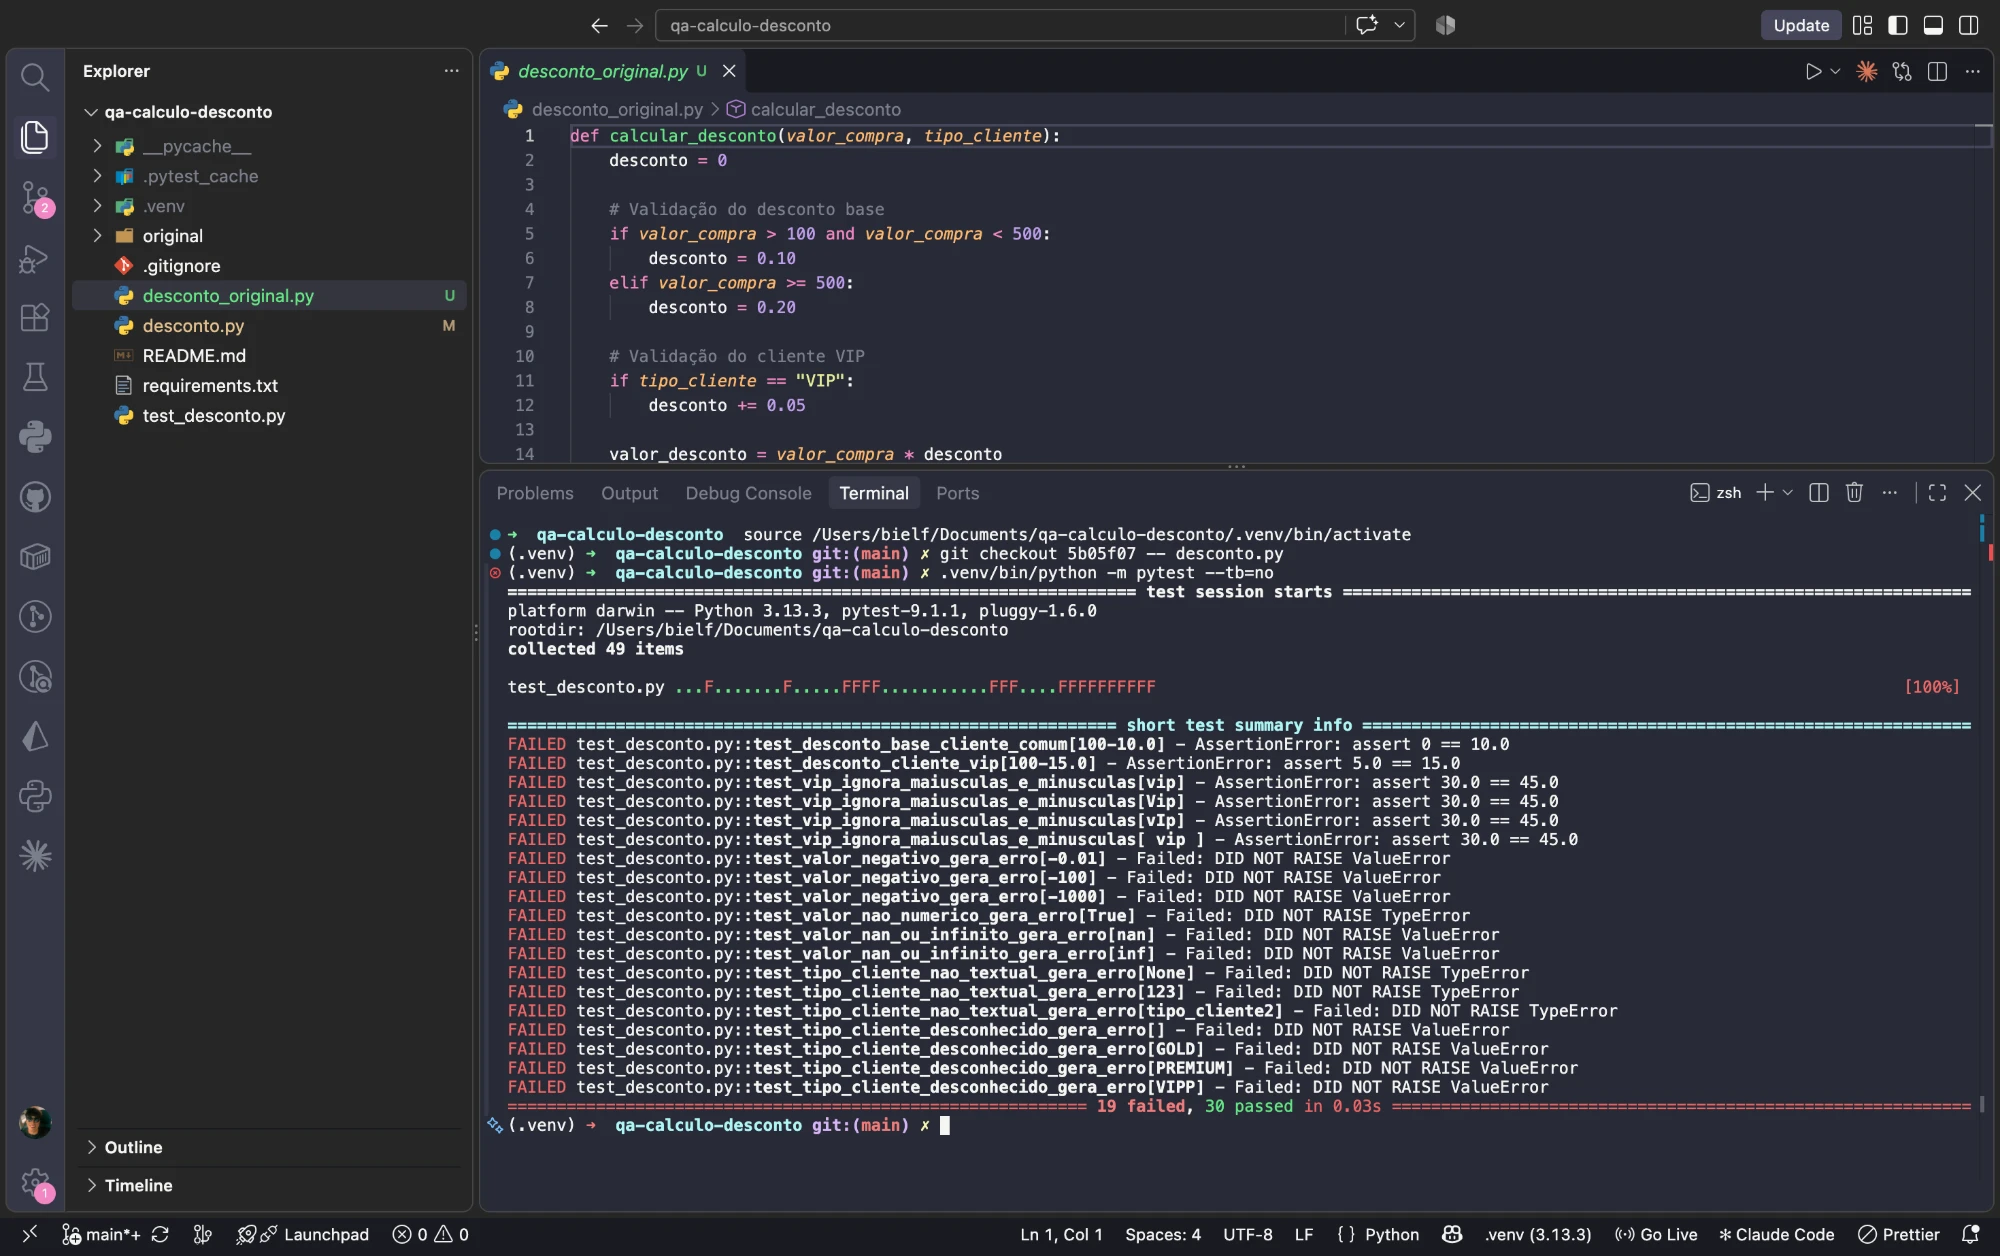
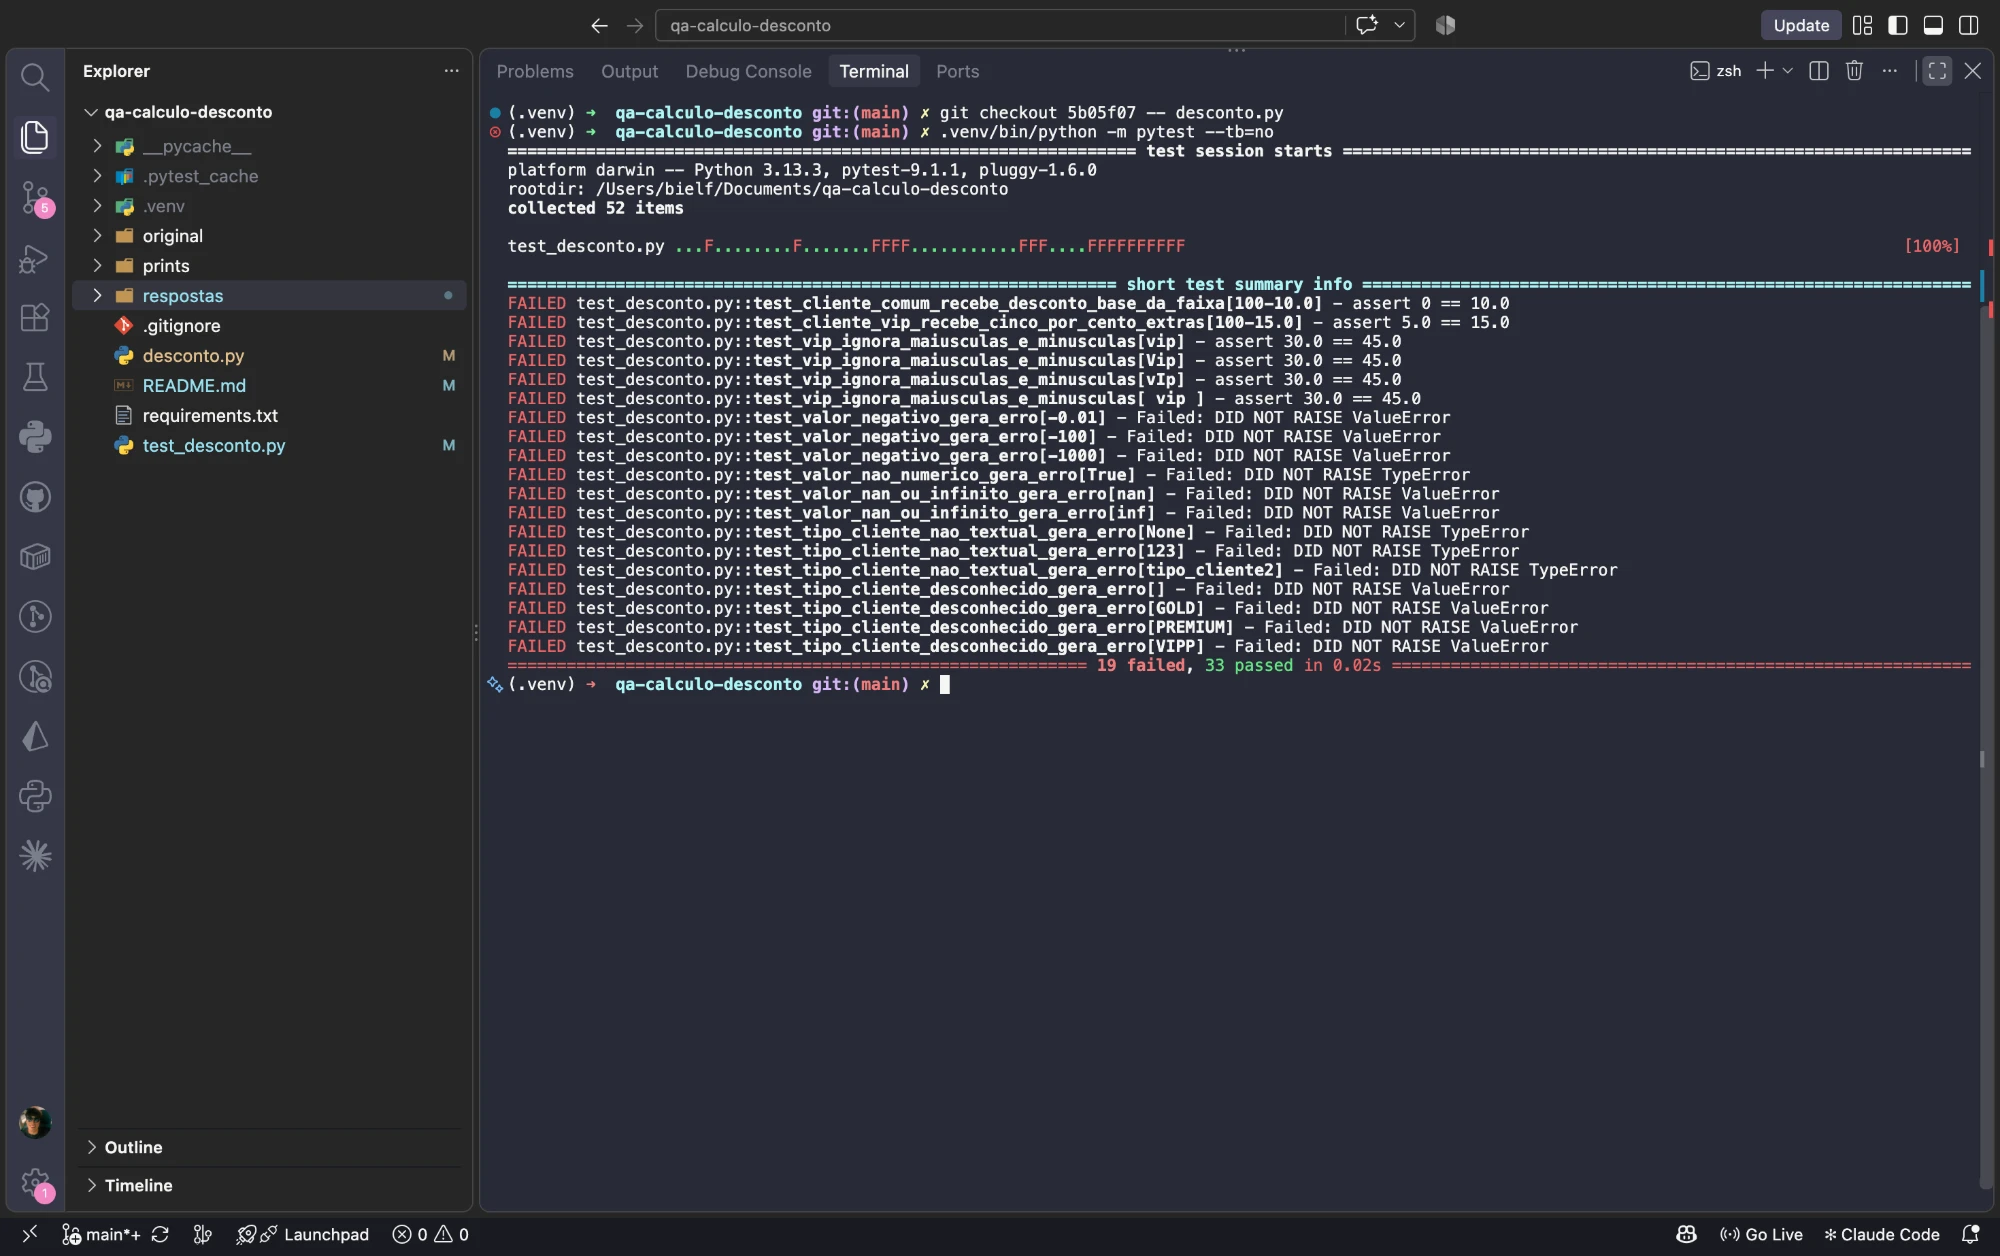
Reestrutura testes no padrão Arrange-Act-Assert e amplia valores limite
- Testes reescritos com as seções Arrange, Act e Assert explícitas
- Novos casos imediatamente depois das fronteiras: 500,01 (COMUM e VIP)
  e 100,01 (VIP), totalizando 52 testes e 34 cenários
- Cenários, análise dos bugs, README e prints atualizados

diff --git a/test_desconto.py b/test_desconto.py
@@ -6,99 +6,159 @@ from desconto import calcular_desconto
 # --- Desconto base: cliente COMUM (valores de fronteira) ---
 
 @pytest.mark.parametrize(
-    "valor_compra, esperado",
+    "valor_compra, desconto_esperado",
     [
         (0, 0.00),          # compra zerada
-        (50, 0.00),         # abaixo de 100 -> 0%
-        (99.99, 0.00),      # limite superior da faixa de 0%
-        (100, 10.00),       # fronteira: exatamente 100 -> 10%
-        (100.01, 10.00),    # logo acima de 100 -> 10%
+        (50, 0.00),         # meio da faixa de 0%
+        (99.99, 0.00),      # imediatamente antes de 100 -> 0%
+        (100, 10.00),       # exatamente 100 -> 10%
+        (100.01, 10.00),    # imediatamente depois de 100 -> 10%
         (300, 30.00),       # meio da faixa de 10%
-        (499.99, 50.00),    # limite superior da faixa de 10%
-        (500, 100.00),      # fronteira: exatamente 500 -> 20%
+        (499.99, 50.00),    # imediatamente antes de 500 -> 10%
+        (500, 100.00),      # exatamente 500 -> 20%
+        (500.01, 100.00),   # imediatamente depois de 500 -> 20%
         (750, 150.00),      # meio da faixa de 20%
     ],
 )
-def test_desconto_base_cliente_comum(valor_compra, esperado):
-    assert calcular_desconto(valor_compra, "COMUM") == esperado
+def test_cliente_comum_recebe_desconto_base_da_faixa(valor_compra, desconto_esperado):
+    # Arrange
+    tipo_cliente = "COMUM"
+
+    # Act
+    resultado = calcular_desconto(valor_compra, tipo_cliente)
+
+    # Assert
+    assert resultado == desconto_esperado
 
 
 # --- Cliente VIP: +5% sobre a porcentagem base ---
 
 @pytest.mark.parametrize(
-    "valor_compra, esperado",
+    "valor_compra, desconto_esperado",
     [
         (50, 2.50),         # 0% + 5% = 5%
-        (99.99, 5.00),      # 0% + 5% = 5%
-        (100, 15.00),       # fronteira: 10% + 5% = 15%
+        (99.99, 5.00),      # imediatamente antes de 100 -> 5%
+        (100, 15.00),       # exatamente 100 -> 15%
+        (100.01, 15.00),    # imediatamente depois de 100 -> 15%
         (300, 45.00),       # 10% + 5% = 15%
-        (499.99, 75.00),    # 10% + 5% = 15%
-        (500, 125.00),      # fronteira: 20% + 5% = 25%
+        (499.99, 75.00),    # imediatamente antes de 500 -> 15%
+        (500, 125.00),      # exatamente 500 -> 25%
+        (500.01, 125.00),   # imediatamente depois de 500 -> 25%
         (600, 150.00),      # 20% + 5% = 25%
     ],
 )
-def test_desconto_cliente_vip(valor_compra, esperado):
-    assert calcular_desconto(valor_compra, "VIP") == esperado
+def test_cliente_vip_recebe_cinco_por_cento_extras(valor_compra, desconto_esperado):
+    # Arrange
+    tipo_cliente = "VIP"
+
+    # Act
+    resultado = calcular_desconto(valor_compra, tipo_cliente)
+
+    # Assert
+    assert resultado == desconto_esperado
 
 
-# --- VIP independente de maiúsculas/minúsculas ---
+# --- Tipo de cliente independente de maiúsculas/minúsculas ---
 
 @pytest.mark.parametrize("tipo_cliente", ["VIP", "vip", "Vip", "vIp", " vip "])
 def test_vip_ignora_maiusculas_e_minusculas(tipo_cliente):
-    assert calcular_desconto(300, tipo_cliente) == 45.00
+    # Arrange
+    valor_compra = 300
+    desconto_esperado = 45.00
+
+    # Act
+    resultado = calcular_desconto(valor_compra, tipo_cliente)
+
+    # Assert
+    assert resultado == desconto_esperado
 
 
 @pytest.mark.parametrize("tipo_cliente", ["COMUM", "comum", "Comum"])
 def test_comum_ignora_maiusculas_e_minusculas(tipo_cliente):
-    assert calcular_desconto(300, tipo_cliente) == 30.00
+    # Arrange
+    valor_compra = 300
+    desconto_esperado = 30.00
+
+    # Act
+    resultado = calcular_desconto(valor_compra, tipo_cliente)
+
+    # Assert
+    assert resultado == desconto_esperado
 
 
 # --- Regra de teto: desconto nunca ultrapassa R$ 200,00 ---
 
 @pytest.mark.parametrize(
-    "valor_compra, tipo_cliente, esperado",
+    "valor_compra, tipo_cliente",
     [
-        (999.99, "COMUM", 200.00),  # 199,998 arredonda para 200,00
-        (1000, "COMUM", 200.00),    # exatamente no teto
-        (1000.01, "COMUM", 200.00), # logo acima do teto
-        (5000, "COMUM", 200.00),    # muito acima do teto
-        (799.99, "VIP", 200.00),    # 199,9975 arredonda para 200,00
-        (800, "VIP", 200.00),       # exatamente no teto
-        (1000, "VIP", 200.00),      # 250 -> limitado a 200
-        (10000, "VIP", 200.00),     # muito acima do teto
+        (999.99, "COMUM"),   # 199,998 arredonda para 200,00
+        (1000, "COMUM"),     # exatamente no teto
+        (1000.01, "COMUM"),  # imediatamente acima do teto
+        (5000, "COMUM"),     # muito acima do teto
+        (799.99, "VIP"),     # 199,9975 arredonda para 200,00
+        (800, "VIP"),        # exatamente no teto
+        (1000, "VIP"),       # 250,00 limitado a 200,00
+        (10000, "VIP"),      # muito acima do teto
     ],
 )
-def test_teto_de_duzentos_reais(valor_compra, tipo_cliente, esperado):
-    assert calcular_desconto(valor_compra, tipo_cliente) == esperado
+def test_desconto_nunca_ultrapassa_teto_de_duzentos_reais(valor_compra, tipo_cliente):
+    # Arrange
+    teto = 200.00
+
+    # Act
+    resultado = calcular_desconto(valor_compra, tipo_cliente)
+
+    # Assert
+    assert resultado == teto
 
 
 # --- Dados inesperados (não descritos explicitamente na regra) ---
 
 @pytest.mark.parametrize("valor_compra", [-0.01, -100, -1000])
 def test_valor_negativo_gera_erro(valor_compra):
+    # Arrange
+    tipo_cliente = "VIP"
+
+    # Act / Assert
     with pytest.raises(ValueError):
-        calcular_desconto(valor_compra, "VIP")
+        calcular_desconto(valor_compra, tipo_cliente)
 
 
 @pytest.mark.parametrize("valor_compra", [None, "300", "abc", [300], True])
 def test_valor_nao_numerico_gera_erro(valor_compra):
+    # Arrange
+    tipo_cliente = "COMUM"
+
+    # Act / Assert
     with pytest.raises(TypeError):
-        calcular_desconto(valor_compra, "COMUM")
+        calcular_desconto(valor_compra, tipo_cliente)
 
 
 @pytest.mark.parametrize("valor_compra", [float("nan"), float("inf")])
 def test_valor_nan_ou_infinito_gera_erro(valor_compra):
+    # Arrange
+    tipo_cliente = "COMUM"
+
+    # Act / Assert
     with pytest.raises(ValueError):
-        calcular_desconto(valor_compra, "COMUM")
+        calcular_desconto(valor_compra, tipo_cliente)
 
 
 @pytest.mark.parametrize("tipo_cliente", [None, 123, ["VIP"]])
 def test_tipo_cliente_nao_textual_gera_erro(tipo_cliente):
+    # Arrange
+    valor_compra = 300
+
+    # Act / Assert
     with pytest.raises(TypeError):
-        calcular_desconto(300, tipo_cliente)
+        calcular_desconto(valor_compra, tipo_cliente)
 
 
 @pytest.mark.parametrize("tipo_cliente", ["", "GOLD", "PREMIUM", "VIPP"])
 def test_tipo_cliente_desconhecido_gera_erro(tipo_cliente):
+    # Arrange
+    valor_compra = 300
+
+    # Act / Assert
     with pytest.raises(ValueError):
-        calcular_desconto(300, tipo_cliente)
+        calcular_desconto(valor_compra, tipo_cliente)

diff --git a/respostas/2-cenarios.md b/respostas/2-cenarios.md
@@ -1,32 +1,35 @@
 # Resposta 2 – Cenários de teste
 
-Cenários para `calcular_desconto(valor_compra, tipo_cliente)`, escolhidos com partição de equivalência e análise de valor limite. São 31 cenários, automatizados em 49 casos de teste em [`test_desconto.py`](../test_desconto.py).
+Cenários para `calcular_desconto(valor_compra, tipo_cliente)`, escolhidos com partição de equivalência e análise de valor limite. São 34 cenários, automatizados em 52 casos de teste em [`test_desconto.py`](../test_desconto.py).
 
 ## A) Desconto base – cliente COMUM
 
 | Cenário | Valor da compra | Desconto esperado | O que verifica |
 |---|---|---|---|
 | CT01 | R$ 0,00 | R$ 0,00 | Compra zerada |
-| CT02 | R$ 50,00 | R$ 0,00 | Faixa de 0% |
-| CT03 | R$ 99,99 | R$ 0,00 | Limite superior da faixa de 0% |
-| CT04 | R$ 100,00 | R$ 10,00 | Fronteira: exatamente 100 já recebe 10% |
-| CT05 | R$ 100,01 | R$ 10,00 | Logo acima da fronteira |
+| CT02 | R$ 50,00 | R$ 0,00 | Meio da faixa de 0% |
+| CT03 | R$ 99,99 | R$ 0,00 | Imediatamente antes de R$ 100,00 |
+| CT04 | R$ 100,00 | R$ 10,00 | Exatamente R$ 100,00: já recebe 10% |
+| CT05 | R$ 100,01 | R$ 10,00 | Imediatamente depois de R$ 100,00 |
 | CT06 | R$ 300,00 | R$ 30,00 | Meio da faixa de 10% |
-| CT07 | R$ 499,99 | R$ 50,00 | Limite superior da faixa de 10% |
-| CT08 | R$ 500,00 | R$ 100,00 | Fronteira: exatamente 500 já recebe 20% |
-| CT09 | R$ 750,00 | R$ 150,00 | Faixa de 20% |
+| CT07 | R$ 499,99 | R$ 50,00 | Imediatamente antes de R$ 500,00 |
+| CT08 | R$ 500,00 | R$ 100,00 | Exatamente R$ 500,00: já recebe 20% |
+| CT09 | R$ 500,01 | R$ 100,00 | Imediatamente depois de R$ 500,00 |
+| CT10 | R$ 750,00 | R$ 150,00 | Meio da faixa de 20% |
 
 ## B) Cliente VIP – 5% extras sobre a porcentagem base
 
 | Cenário | Valor da compra | Desconto esperado | O que verifica |
 |---|---|---|---|
-| CT10 | R$ 50,00 | R$ 2,50 | 0% vira 5% |
-| CT11 | R$ 99,99 | R$ 5,00 | 0% vira 5% no limite da faixa |
-| CT12 | R$ 100,00 | R$ 15,00 | Fronteira: 10% vira 15% |
-| CT13 | R$ 300,00 | R$ 45,00 | 10% vira 15% |
-| CT14 | R$ 499,99 | R$ 75,00 | 10% vira 15% no limite da faixa |
-| CT15 | R$ 500,00 | R$ 125,00 | Fronteira: 20% vira 25% |
-| CT16 | R$ 600,00 | R$ 150,00 | 20% vira 25% |
+| CT11 | R$ 50,00 | R$ 2,50 | 0% vira 5% |
+| CT12 | R$ 99,99 | R$ 5,00 | Imediatamente antes de R$ 100,00: 5% |
+| CT13 | R$ 100,00 | R$ 15,00 | Exatamente R$ 100,00: 10% vira 15% |
+| CT14 | R$ 100,01 | R$ 15,00 | Imediatamente depois de R$ 100,00: 15% |
+| CT15 | R$ 300,00 | R$ 45,00 | 10% vira 15% |
+| CT16 | R$ 499,99 | R$ 75,00 | Imediatamente antes de R$ 500,00: 15% |
+| CT17 | R$ 500,00 | R$ 125,00 | Exatamente R$ 500,00: 20% vira 25% |
+| CT18 | R$ 500,01 | R$ 125,00 | Imediatamente depois de R$ 500,00: 25% |
+| CT19 | R$ 600,00 | R$ 150,00 | 20% vira 25% |
 
 ## C) Tipo de cliente em maiúsculas e minúsculas
 
@@ -34,21 +37,21 @@ Todos com compra de R$ 300,00.
 
 | Cenário | Tipo informado | Desconto esperado |
 |---|---|---|
-| CT17 | `"VIP"`, `"vip"`, `"Vip"`, `"vIp"` e `" vip "` (com espaços) | R$ 45,00 em todos |
-| CT18 | `"COMUM"`, `"comum"` e `"Comum"` | R$ 30,00 em todos |
+| CT20 | `"VIP"`, `"vip"`, `"Vip"`, `"vIp"` e `" vip "` (com espaços) | R$ 45,00 em todos |
+| CT21 | `"COMUM"`, `"comum"` e `"Comum"` | R$ 30,00 em todos |
 
 ## D) Regra de teto – desconto máximo de R$ 200,00
 
 | Cenário | Valor da compra | Tipo | Desconto esperado | O que verifica |
 |---|---|---|---|---|
-| CT19 | R$ 999,99 | COMUM | R$ 200,00 | 199,998 arredonda para 200,00 |
-| CT20 | R$ 1.000,00 | COMUM | R$ 200,00 | Exatamente no teto |
-| CT21 | R$ 1.000,01 | COMUM | R$ 200,00 | Logo acima do teto |
-| CT22 | R$ 5.000,00 | COMUM | R$ 200,00 | Muito acima do teto |
-| CT23 | R$ 799,99 | VIP | R$ 200,00 | 199,9975 arredonda para 200,00 |
-| CT24 | R$ 800,00 | VIP | R$ 200,00 | Exatamente no teto |
-| CT25 | R$ 1.000,00 | VIP | R$ 200,00 | 250,00 limitado a 200,00 |
-| CT26 | R$ 10.000,00 | VIP | R$ 200,00 | Muito acima do teto |
+| CT22 | R$ 999,99 | COMUM | R$ 200,00 | 199,998 arredonda para 200,00 |
+| CT23 | R$ 1.000,00 | COMUM | R$ 200,00 | Exatamente no teto |
+| CT24 | R$ 1.000,01 | COMUM | R$ 200,00 | Imediatamente acima do teto |
+| CT25 | R$ 5.000,00 | COMUM | R$ 200,00 | Muito acima do teto |
+| CT26 | R$ 799,99 | VIP | R$ 200,00 | 199,9975 arredonda para 200,00 |
+| CT27 | R$ 800,00 | VIP | R$ 200,00 | Exatamente no teto |
+| CT28 | R$ 1.000,00 | VIP | R$ 200,00 | 250,00 limitado a 200,00 |
+| CT29 | R$ 10.000,00 | VIP | R$ 200,00 | Muito acima do teto |
 
 ## E) Dados inesperados
 
@@ -56,8 +59,8 @@ Estes casos não estão descritos na regra de negócio. A decisão adotada foi r
 
 | Cenário | Entrada | Resultado esperado |
 |---|---|---|
-| CT27 | Valor negativo (-0,01, -100 e -1000) | `ValueError` |
-| CT28 | Valor não numérico (`None`, `"300"`, `"abc"`, `[300]` e `True`) | `TypeError` |
-| CT29 | Valor `NaN` ou infinito | `ValueError` |
-| CT30 | Tipo de cliente não textual (`None`, `123` e `["VIP"]`) | `TypeError` |
-| CT31 | Tipo de cliente desconhecido (`""`, `"GOLD"`, `"PREMIUM"` e `"VIPP"`) | `ValueError` |
+| CT30 | Valor negativo (-0,01, -100 e -1000) | `ValueError` |
+| CT31 | Valor não numérico (`None`, `"300"`, `"abc"`, `[300]` e `True`) | `TypeError` |
+| CT32 | Valor `NaN` ou infinito | `ValueError` |
+| CT33 | Tipo de cliente não textual (`None`, `123` e `["VIP"]`) | `TypeError` |
+| CT34 | Tipo de cliente desconhecido (`""`, `"GOLD"`, `"PREMIUM"` e `"VIPP"`) | `ValueError` |

diff --git a/respostas/3-bugs-encontrados.md b/respostas/3-bugs-encontrados.md
@@ -1,6 +1,6 @@
 # Resposta 3 – Bugs encontrados e como os testes os revelaram
 
-Os 49 casos de teste foram executados contra o código original: 19 falharam e 30 passaram. As falhas apontaram três problemas.
+Os 52 casos de teste foram executados contra o código original: 19 falharam e 33 passaram. As falhas apontaram três problemas.
 
 ## Bug 1 – Fronteira dos R$ 100,00
 
@@ -43,10 +43,10 @@ O Dev Jr. testou apenas R$ 300,00 com o tipo escrito da forma esperada. Esse val
 
 Duas técnicas guiaram a escolha dos valores:
 
-1. **Análise de valor limite.** Foram testados os pontos exatos de troca de faixa e seus vizinhos (99,99 / 100 / 100,01 e 499,99 / 500), além dos limites do teto (999,99 / 1000 / 1000,01 para COMUM e 799,99 / 800 para VIP). Foi o valor exato de R$ 100,00 que revelou o Bug 1: com 99,99 e 100,01 o código original acertava, e o erro só existia naquele único ponto.
+1. **Análise de valor limite.** Foram testados os pontos exatos de troca de faixa e seus vizinhos (99,99 / 100 / 100,01 e 499,99 / 500 / 500,01), além dos limites do teto (999,99 / 1000 / 1000,01 para COMUM e 799,99 / 800 para VIP). Foi o valor exato de R$ 100,00 que revelou o Bug 1: com 99,99 e 100,01 o código original acertava, e o erro só existia naquele único ponto.
 2. **Partição de equivalência.** As entradas foram divididas em classes válidas (cada faixa de valor, VIP e COMUM) e inválidas (negativos, não numéricos, tipos desconhecidos), com representantes de cada uma. As variações de escrita do VIP revelaram o Bug 2 e as classes inválidas revelaram o Bug 3.
 
-Os testes das fronteiras de R$ 500,00 e do teto de R$ 200,00 passaram no código original, o que confirma que essas partes já estavam corretas. Após as correções, os 49 testes passaram.
+Os testes das fronteiras de R$ 500,00 e do teto de R$ 200,00 passaram no código original, o que confirma que essas partes já estavam corretas. Após as correções, os 52 testes passaram.
 
 ## Distribuição das 19 falhas
 

diff --git a/README.md b/README.md
@@ -38,16 +38,16 @@ A função retorna o valor do desconto em reais (R$):
 
 | Momento | Resultado |
 |---|---|
-| Antes da correção (código original) | 19 falharam, 30 passaram |
-| Depois da correção | 49 passaram |
+| Antes da correção (código original) | 19 falharam, 33 passaram |
+| Depois da correção | 52 passaram |
 
 ### PRINT1 – antes da correção
 
-![Execução dos testes contra o código original: 19 falharam e 30 passaram](prints/print1-antes-da-correcao.png)
+![Execução dos testes contra o código original: 19 falharam e 33 passaram](prints/print1-antes-da-correcao.png)
 
 ### PRINT2 – depois da correção
 
-![Execução dos testes contra o código corrigido: 49 passaram](prints/print2-depois-da-correcao.png)
+![Execução dos testes contra o código corrigido: 52 passaram](prints/print2-depois-da-correcao.png)
 
 ## Resumo dos bugs
 
